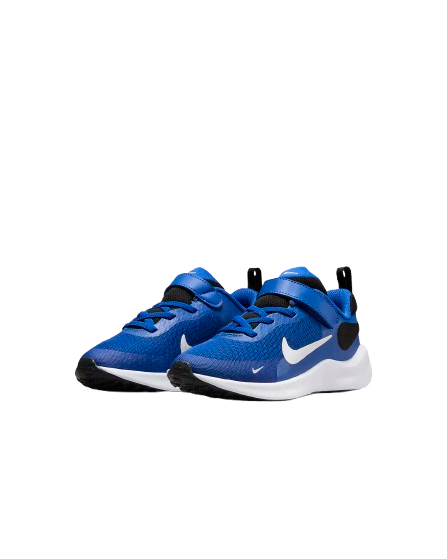
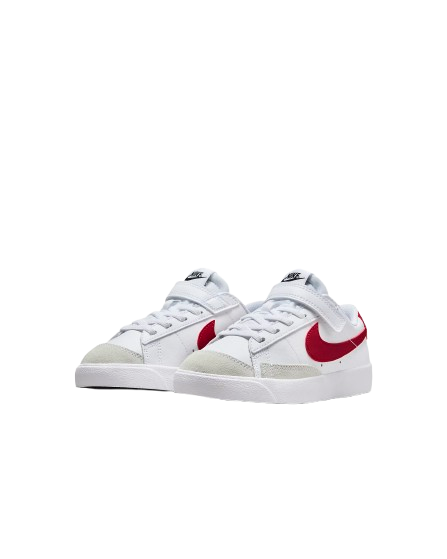
replace kids shoes 7 and 8

Changed region(s): [[0.1454, 0.4562, 0.8434, 0.7299]]

diff --git a/kidshoes.html b/kidshoes.html
@@ -3,7 +3,7 @@
 <head>
     <meta charset="UTF-8">
     <meta name="viewport" content="width=device-width, initial-scale=1.0">
-    <title>Women's Shoes</title>
+    <title>Kid's Shoes</title>
     <link rel="stylesheet" href="style.css">
     <link rel="stylesheet" href="https://cdnjs.cloudflare.com/ajax/libs/font-awesome/6.0.0-beta3/css/all.min.css">
     <link href="https://fonts.googleapis.com/css2?family=Poppins:wght@400;500;600&display=swap" rel="stylesheet">
@@ -391,7 +391,7 @@
 
     </style>
 
-    <script src="cart.js"></script>
+    <script src="kids.js"></script>
 
 </head>
 <body>
@@ -497,60 +497,60 @@
     <script>
         const products = [
             {
-                id: 1,
+                id: 9,
                 name: "Nike Tanjun EasyOn",
                 image: "Shoes/kids shoes 1.png",
                 price: "₱1,379",
                 description: "Made for kids (and their squirmy feet), these Air Max Shoes have an easy-on system that makes putting them on a breeze. The laces are just for show—the entire lace area lifts up, making a large slip-in space."
             },
             {
-                id: 2,
+                id: 10,
                 name: "Nike Air Max 90 LTR",
                 image: "Shoes/kids shoes 2.png",
                 price: "₱3,219",
                 description: "The Nike Air Max 90 LTR returns with an even better feel for you. Cushioning is softer and more flexible, the Max Air unit is tuned for growing feet and the shape gives your toes more wiggle room."
             },
             {
-                id: 3,
+                id: 11,
                 name: "Nike Flex Plus 2",
                 image: "Shoes/kids shoes 3.png",
                 price: "₱2,479",
                 description: "The Nike Flex Plus 2 wastes no time so you can get out the door to run and play. We're talking break time, PE class and all of your favourite activities. The innovative elastic band system makes getting these shoes on a breeze."
             },
             {
-                id: 4,
+                id: 12,
                 name: "Nike Crosscourt",
                 image: "Shoes/kids shoes 4.png",
                 price: "₱3,995",
                 description: "Made specifically for indoor courts, the Nike Crosscourt uses multi-directional traction to help you stop in an instant and change direction fast. Plus, springy foam underfoot and breathable mesh up top."
             },
             {
-                id: 5,
+                id: 13,
                 name: "Nike Infinity Flow",
                 image: "Shoes/kids shoes 5.png",
                 price: "₱2,799",
                 description: "For starters, we stacked it with soft and bouncy foam to help cushion every stride your little runner takes. A breathable mesh upper helps keep little feet cool, while a hook-and-loop strap lets kids secure their fit fast."
             },
             {
-                id: 6,
+                id: 14,
                 name: "Nike Air Flight 89",
                 image: "Shoes/kids shoes 6.png",
                 price: "₱4,195",
                 description: "The Nike Air Max Plus features a stylish, unique design with responsive cushioning for long-lasting comfort.  <br><br> <strong>Colour Shown:</strong> Red Stardust <br><strong>Style:</strong> HF0782-101 <br><strong>Country/Region of Origin:</strong> Vietnam"
             },
             {
-                id: 7,
-                name: "Air Jordan 1 Elevate",
-                image: "Shoes/women shoes 7.png",
-                price: "₱4,259",
-                description: "The Air Jordan 1 Elevate brings you a sleek and stylish update to the classic silhouette, designed for all-day comfort and support.  <br><br> <strong>Colour Shown:</strong> Red Stardust <br><strong>Style:</strong> HF0782-101 <br><strong>Country/Region of Origin:</strong> Vietnam"
+                id: 15,
+                name: "Nike Blazer Low '77",
+                image: "Shoes/kids shoes 7.png",
+                price: "₱₱1,999",
+                description: "The Nike Blazer Low '77 has transcended the basketball court to streetwear and is ready to land on your kid's feet.Tuck their toes into this icon for an old-school look that keeps little feet comfy on all their adventures."
             },
             {
-                id: 8,
-                name: "Nike Air Max Plus Plus",
-                image: "Shoes/women shoes 8.png",
-                price: "₱5,939",
-                description: "Nike Air Max Plus brings an iconic, sporty look with responsive cushioning and a durable build for everyday wear.  <br><br> <strong>Colour Shown:</strong> Red Stardust <br><strong>Style:</strong> HF0782-101 <br><strong>Country/Region of Origin:</strong> Vietnam"
+                id: 16,
+                name: "Nike Air Max 1 SE",
+                image: "Shoes/kids shoes 8.png",
+                price: "₱3,119",
+                description: "A true original, the Air Max 1 was our first shoe with visible Air. It's been a legend ever since. Inspired by the ways we move, this special edition has reflective design details and a layered Swoosh logo to help your style shine when you step on the beat."
             }
         ];
 
